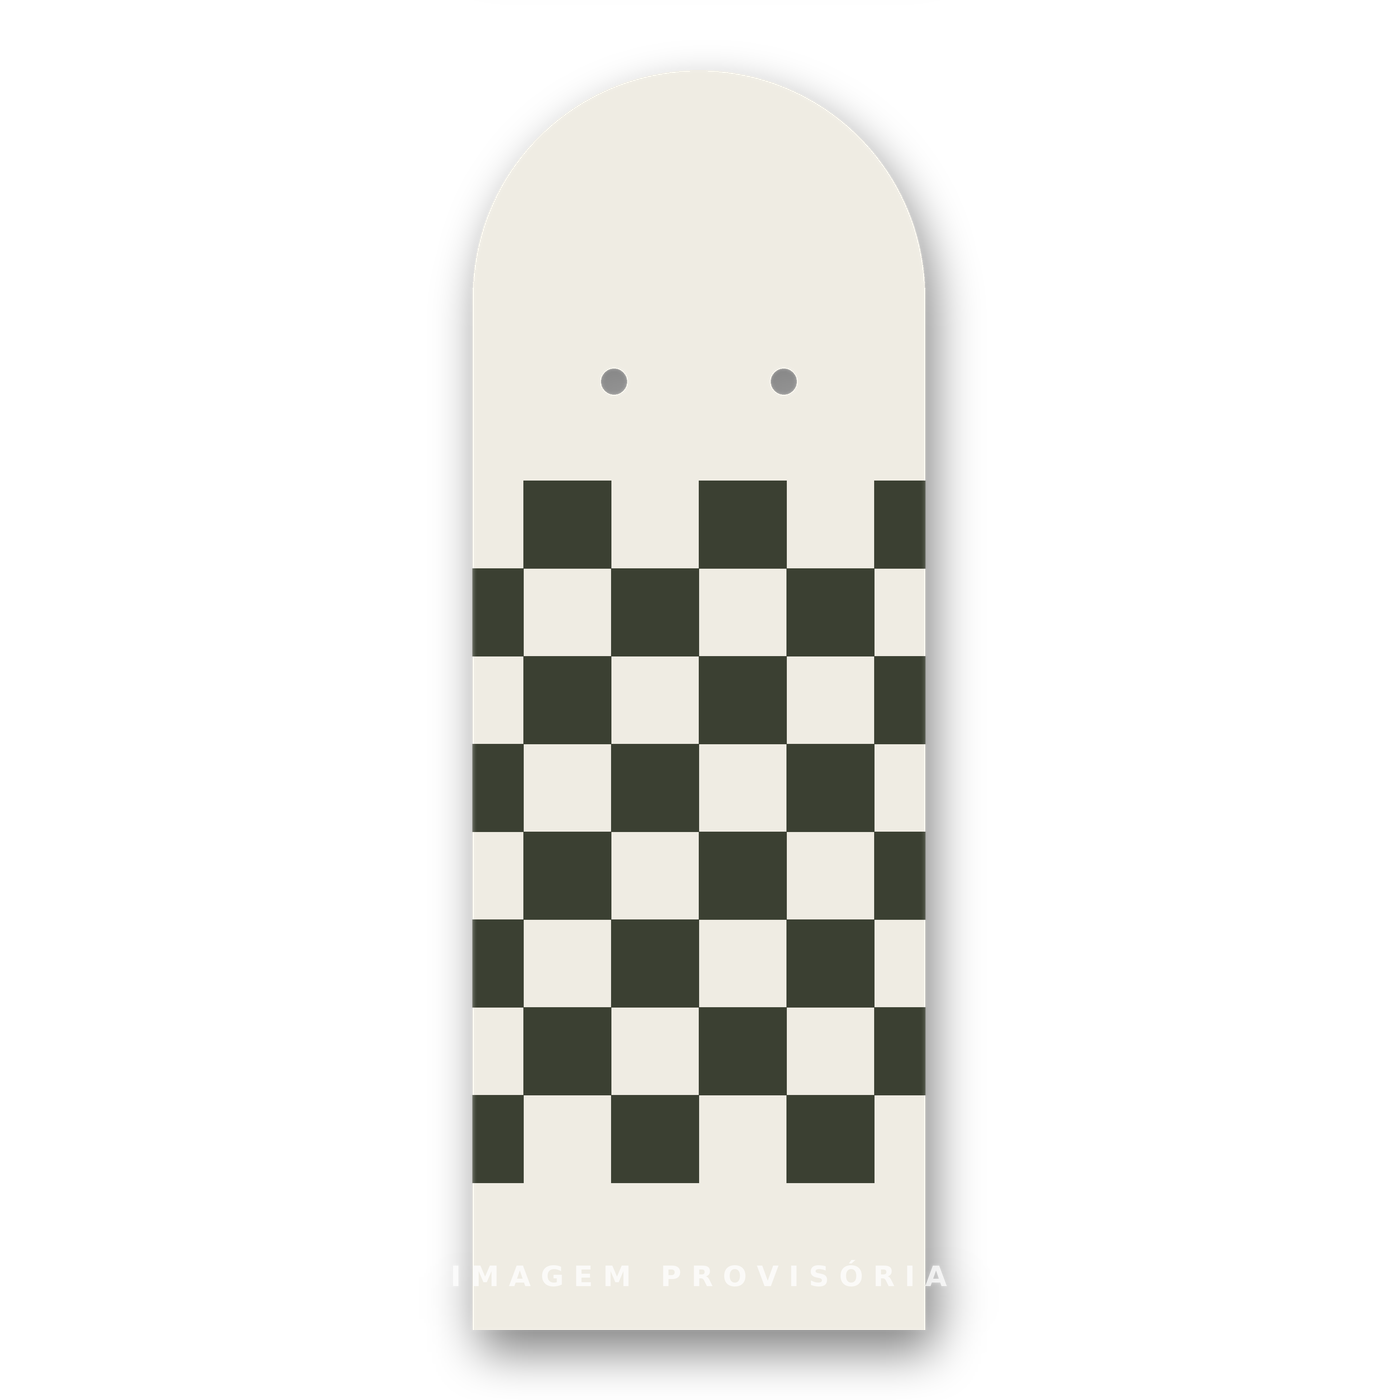
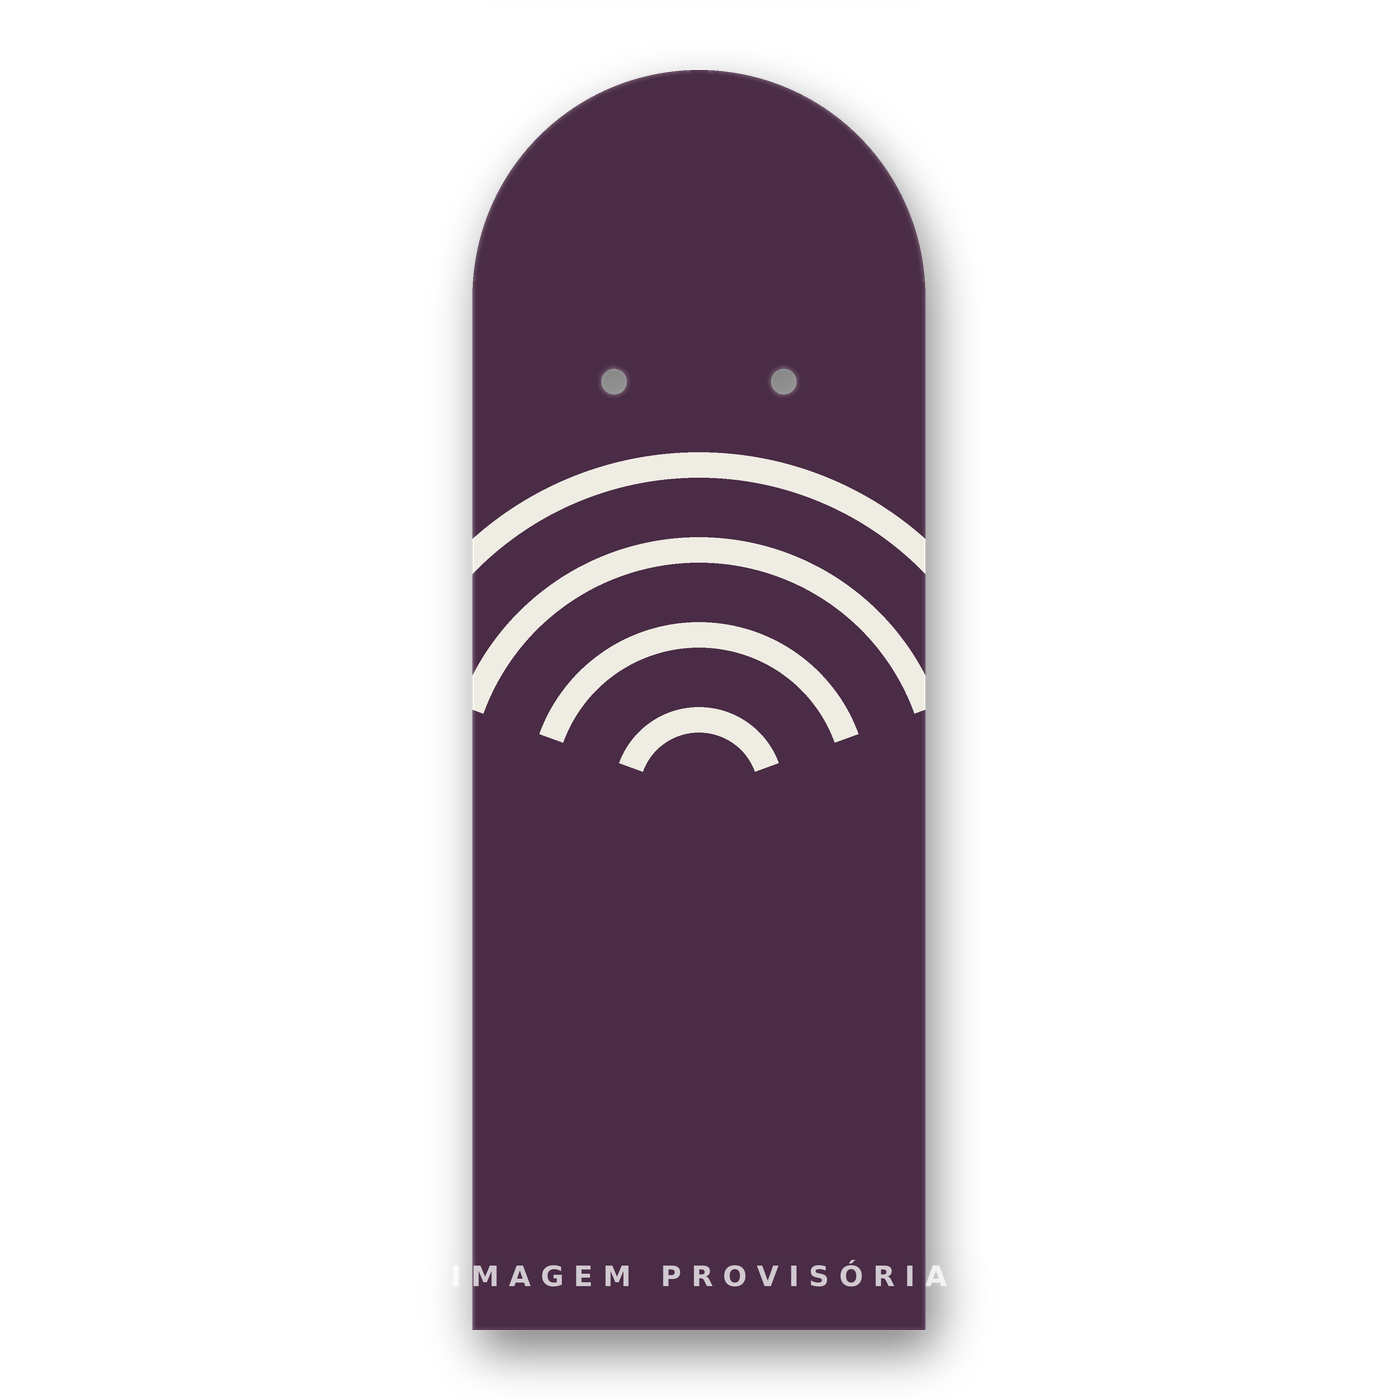
Keep a single deck in the catalogue
- Drop SHAPE MOSAICO, SHAPE TURNO DA NOITE and SHAPE TIME 19; SHAPE FULL DIP
  is the only shape, still in 8.0 / 8.25 / 8.5
- Give it a compareAtPrice so the sale page keeps two items
- Add FeaturedProduct: a one-item collection reads better as a wide showcase
  than as a small card stranded in a four-column grid. Used on the home page
  and on /loja?colecao=shapes
- Remove the shape from new arrivals so it no longer appears twice on the home
  page, and point the latest-drop copy at shirts
- Widen a lone card in ProductGrid as a fallback for other one-item lists
- Trim the placeholder generator to two deck images and delete deck-03

Changed region(s): [[0.3379, 0.0307, 0.6757, 0.9521]]

diff --git a/src/app/page.tsx b/src/app/page.tsx
@@ -1,6 +1,7 @@
 import Link from "next/link";
 
 import styles from "./page.module.css";
+import { FeaturedProduct } from "@/components/product/FeaturedProduct";
 import { ProductGrid } from "@/components/product/ProductGrid";
 import { SectionHeading } from "@/components/product/SectionHeading";
 import { buttonClassName } from "@/components/ui/button-classes";
@@ -15,6 +16,7 @@ import {
 export default function HomePage() {
   const latest = getNewArrivals(8);
   const shapes = getProductsByCollection("shapes");
+  const singleShape = shapes.length === 1 ? shapes[0] : undefined;
   const onSale = getSaleProducts().slice(0, 4);
 
   return (
@@ -24,21 +26,33 @@ export default function HomePage() {
           id="novidades"
           eyebrow="Nova temporada"
           title="Últimos lançamentos"
-          description="Shapes novos e algodão pesado, estampado em tiragens pequenas."
+          description="Camisetas novas, estampadas em tiragens pequenas."
           action={{ label: "Ver tudo", href: "/loja" }}
         />
         <ProductGrid products={latest} />
       </section>
 
-      <section className={`container ${styles.section}`} aria-labelledby="shapes">
-        <SectionHeading
-          id="shapes"
-          eyebrow="Sete lâminas de bordo"
-          title="Shapes"
-          action={{ label: "Todos os shapes", href: "/loja?colecao=shapes" }}
-        />
-        <ProductGrid products={shapes} priorityCount={0} />
-      </section>
+      {/* A coleção tem um shape só: uma vitrine ocupa melhor o espaço que
+          uma grade de quatro colunas com um card pequeno no canto. */}
+      <div className={`container ${styles.section}`}>
+        {singleShape ? (
+          <FeaturedProduct
+            product={singleShape}
+            eyebrow="Sete lâminas de bordo"
+            title="Shapes"
+          />
+        ) : (
+          <section aria-labelledby="shapes">
+            <SectionHeading
+              id="shapes"
+              eyebrow="Sete lâminas de bordo"
+              title="Shapes"
+              action={{ label: "Todos os shapes", href: "/loja?colecao=shapes" }}
+            />
+            <ProductGrid products={shapes} priorityCount={0} />
+          </section>
+        )}
+      </div>
 
       <section className={`container ${styles.section}`} aria-labelledby="video">
         <Link href="/video" className={styles.videoBand}>

diff --git a/src/components/product/FeaturedProduct.tsx b/src/components/product/FeaturedProduct.tsx
@@ -1,0 +1,67 @@
+import Image from "next/image";
+import Link from "next/link";
+
+import styles from "./featured-product.module.css";
+import { Price } from "@/components/ui/Price";
+import { buttonClassName } from "@/components/ui/button-classes";
+import { ArrowRightIcon } from "@/components/ui/Icons";
+import type { Product } from "@/lib/types";
+
+interface FeaturedProductProps {
+  product: Product;
+  eyebrow?: string;
+  title: string;
+  description?: string;
+}
+
+/**
+ * Destaque para uma coleção de um item só.
+ *
+ * Com um único shape, uma grade de quatro colunas deixaria um card pequeno
+ * perdido no canto. Aqui o produto ocupa a largura da seção, como vitrine.
+ */
+export function FeaturedProduct({
+  product,
+  eyebrow,
+  title,
+  description,
+}: FeaturedProductProps) {
+  return (
+    <section className={styles.band} aria-labelledby="destaque-titulo">
+      <div className={styles.media}>
+        <Image
+          src={product.image}
+          alt={product.name}
+          fill
+          sizes="(min-width: 990px) 45vw, 100vw"
+          className={styles.image}
+        />
+      </div>
+
+      <div className={styles.copy}>
+        {eyebrow && <p className="eyebrow">{eyebrow}</p>}
+        <h2 id="destaque-titulo" className={styles.title}>
+          {title}
+        </h2>
+        {title !== product.name && (
+          <p className={styles.productName}>{product.name}</p>
+        )}
+        <Price
+          price={product.price}
+          compareAtPrice={product.compareAtPrice}
+          size="large"
+          showDiscount
+        />
+        <p className={styles.description}>{description ?? product.description}</p>
+
+        <Link
+          href={`/produtos/${product.slug}`}
+          className={buttonClassName("secondary", styles.action)}
+        >
+          {product.soldOut ? "Ver detalhes" : "Ver o shape"}
+          <ArrowRightIcon />
+        </Link>
+      </div>
+    </section>
+  );
+}

diff --git a/src/lib/catalog.ts b/src/lib/catalog.ts
@@ -16,53 +16,13 @@ export const PRODUCTS: Product[] = [
     name: "SHAPE FULL DIP",
     collection: "shapes",
     price: 34900,
+    compareAtPrice: 39900,
     image: "/media/products/deck-01.png",
-    hoverImage: "/media/products/deck-03.png",
+    hoverImage: "/media/products/deck-02.png",
     colorway: "PRETO / AMARELO",
     sizes: ["8.0", "8.25", "8.5"],
     description:
       "Sete lâminas de bordo canadense com acabamento full dip. Concave médio, tail íngreme, prensado para a rua.",
-    isNew: true,
-  },
-  {
-    id: "p-shape-mosaico",
-    slug: "shape-mosaico",
-    name: "SHAPE MOSAICO",
-    collection: "shapes",
-    price: 34900,
-    image: "/media/products/deck-02.png",
-    hoverImage: "/media/products/deck-01.png",
-    colorway: "CRU / VERDE-OLIVA",
-    sizes: ["8.0", "8.25", "8.5"],
-    description:
-      "Sete lâminas de bordo canadense, gráfico mosaico, concave médio. Um shape que amacia rápido e continua firme.",
-  },
-  {
-    id: "p-shape-turno-da-noite",
-    slug: "shape-turno-da-noite",
-    name: "SHAPE TURNO DA NOITE",
-    collection: "shapes",
-    price: 35900,
-    compareAtPrice: 39900,
-    image: "/media/products/deck-03.png",
-    hoverImage: "/media/products/deck-02.png",
-    colorway: "AMORA / CRU",
-    sizes: ["8.0", "8.25", "8.5"],
-    description:
-      "Concave mais fundo e nose quadrado para manobras de borda. Tingimento full dip amora com estampa cru.",
-  },
-  {
-    id: "p-shape-time-19",
-    slug: "shape-time-19",
-    name: "SHAPE TIME 19",
-    collection: "shapes",
-    price: 32900,
-    image: "/media/products/deck-01.png",
-    colorway: "PRETO / AMARELO",
-    sizes: ["8.0", "8.25"],
-    description:
-      "Shape do time, da leva de arquivo. Mesmo bordo, mesma prensa, tiragem limitada.",
-    soldOut: true,
   },
   {
     id: "p-camiseta-mira-preta",

diff --git a/src/components/product/featured-product.module.css b/src/components/product/featured-product.module.css
@@ -1,0 +1,66 @@
+.band {
+  display: grid;
+  grid-template-columns: 1fr;
+  gap: var(--space-5);
+  align-items: center;
+  padding-block: var(--space-5);
+  border-top: 1px solid var(--border-subtle);
+  border-bottom: 1px solid var(--border-subtle);
+}
+
+.media {
+  position: relative;
+  aspect-ratio: 1 / 1;
+  max-width: 42rem;
+  width: 100%;
+  justify-self: center;
+}
+
+.image {
+  object-fit: contain;
+}
+
+.copy {
+  display: flex;
+  flex-direction: column;
+  align-items: flex-start;
+  gap: 1rem;
+}
+
+.title {
+  font-size: clamp(2.4rem, 4vw, 3.6rem);
+  letter-spacing: 0.04em;
+  text-transform: uppercase;
+}
+
+.productName {
+  font-family: var(--font-display);
+  font-size: 1.5rem;
+  letter-spacing: 0.08em;
+  color: var(--text-secondary);
+  text-transform: uppercase;
+}
+
+.description {
+  max-width: 46ch;
+  margin-top: 0.4rem;
+  font-size: 1.35rem;
+  line-height: 1.6;
+  color: var(--text-tertiary);
+}
+
+.action {
+  margin-top: 0.8rem;
+}
+
+@media (min-width: 750px) {
+  .band {
+    grid-template-columns: minmax(0, 0.9fr) minmax(0, 1.1fr);
+    gap: var(--space-6);
+    padding-block: var(--space-6);
+  }
+
+  .media {
+    justify-self: start;
+  }
+}

diff --git a/src/app/loja/page.tsx b/src/app/loja/page.tsx
@@ -2,8 +2,9 @@ import Link from "next/link";
 
 import styles from "./loja.module.css";
 import { PageHeader } from "@/components/layout/PageHeader";
+import { FeaturedProduct } from "@/components/product/FeaturedProduct";
 import { ProductGrid } from "@/components/product/ProductGrid";
-import { COLLECTIONS } from "@/config/navigation";
+import { COLLECTIONS, collectionLabel } from "@/config/navigation";
 import { getProductsByCollection } from "@/lib/catalog";
 import type { CollectionId } from "@/lib/types";
 
@@ -59,7 +60,13 @@ export default async function LojaPage({ searchParams }: LojaPageProps) {
         {products.length} {products.length === 1 ? "item" : "itens"}
       </p>
 
-      <ProductGrid products={products} />
+      {/* Uma coleção de um item só fica melhor como vitrine do que como um
+          card solto no canto da grade. */}
+      {products.length === 1 && products[0] ? (
+        <FeaturedProduct product={products[0]} eyebrow={collectionLabel(products[0].collection)} title={products[0].name} />
+      ) : (
+        <ProductGrid products={products} />
+      )}
     </div>
   );
 }

diff --git a/src/components/product/ProductGrid.tsx b/src/components/product/ProductGrid.tsx
@@ -17,8 +17,11 @@ export function ProductGrid({ products, priorityCount = 4 }: ProductGridProps) {
     );
   }
 
+  // Uma coleção de um item só não deve virar um card pequeno num canto.
+  const layoutClass = products.length === 1 ? styles.single : styles.grid;
+
   return (
-    <ul className={styles.grid}>
+    <ul className={layoutClass}>
       {products.map((product, index) => (
         <li key={product.id} className={styles.item}>
           <ProductCard product={product} priority={index < priorityCount} />

diff --git a/src/components/product/product-grid.module.css b/src/components/product/product-grid.module.css
@@ -30,3 +30,10 @@
     row-gap: var(--space-7);
   }
 }
+
+/* Um único produto na grade ocupa a largura de dois cards. */
+.single {
+  display: grid;
+  grid-template-columns: minmax(0, 1fr);
+  max-width: 40rem;
+}

diff --git a/scripts/generate_placeholders.py b/scripts/generate_placeholders.py
@@ -276,8 +276,7 @@ def build_product(shape: str, motif: str, colour, motif_colour) -> Image.Image:
 # (filename, shape, motif, garment colour, print colour)
 PRODUCTS = [
     ("deck-01", "deck", "crosshair", INK, AMARELO),
-    ("deck-02", "deck", "checker", BONE, OLIVE),
-    ("deck-03", "deck", "rings", PLUM, BONE),
+    ("deck-02", "deck", "rings", PLUM, BONE),
     ("tee-01", "tee", "crosshair", INK, AMARELO),
     ("tee-02", "tee", "target", BONE, VERMELHO),
     ("tee-03", "tee", "word", INK, AZUL),

diff --git a/README.md b/README.md
@@ -14,8 +14,8 @@ produto são provisórias e devem ser trocadas pelas do ensaio oficial.
 
 - **Navegação**: as quatro abas pedidas — LOJA, VÍDEO, PROMOÇÕES e PRÉVIA.
   LOJA abre um menu com as coleções; nada mais no nível de cima.
-- **Catálogo**: 10 produtos, só shapes e camisetas, com filtro por coleção,
-  preço promocional, estado esgotado e página de prévia.
+- **Catálogo**: 7 produtos — um shape e seis camisetas — com filtro por coleção,
+  preço promocional e página de prévia.
 - **Página de produto**: galeria com foto alternativa, escolha de tamanho,
   quantidade, adicionar à sacola e produtos relacionados.
 - **Sacola**: adicionar pela página ou compra rápida no card, painel lateral,
@@ -155,9 +155,12 @@ Produtos, preços, cores, tamanhos e descrições ficam em `src/lib/catalog.ts`.
 Os preços são inteiros em centavos (`34900` = R$ 349,00), o que mantém a conta
 exata. Os tamanhos de vestuário são P, M, G e GG; shapes usam 8.0, 8.25 e 8.5.
 
-A loja vende só dois tipos de produto: **shapes** e **camisetas**. Manga longa
-conta como camiseta; moletom, boné, touca e acessórios ficaram fora do catálogo
-e das coleções. Para voltar a vender outra categoria, acrescente o id em
+A loja vende só dois tipos de produto: **shapes** e **camisetas**, e o catálogo
+tem **um único shape** (SHAPE FULL DIP, em três tamanhos). Manga longa conta
+como camiseta; moletom, boné, touca e acessórios ficaram fora do catálogo e das
+coleções. Como shapes é uma coleção de um item, ela aparece como vitrine
+(`FeaturedProduct`) em vez de card solto na grade — na home e em
+`/loja?colecao=shapes`. Para voltar a vender outra categoria, acrescente o id em
 `CollectionId` (`src/lib/types.ts`), em `COLLECTIONS`
 (`src/config/navigation.ts`) e os produtos em `src/lib/catalog.ts`.
 
@@ -213,8 +216,8 @@ Checado no build de produção em 1440×950 e 390×844:
 - Quatro abas, em português, e rotas antigas em inglês retornando 404.
 - Adicionar à sacola → painel → recarregar (sacola persiste) → alterar
   quantidade → esvaziar.
-- Catálogo com 10 produtos, só SHAPES e CAMISETAS (manga longa entra como
-  camiseta), e nenhuma peça de boné, moletom ou acessório.
+- Catálogo com 7 produtos: um shape e seis camisetas (manga longa entra como
+  camiseta), sem boné, moletom ou acessório.
 - Senha errada mostra erro; login de demonstração chega em `/conta`; sair volta
   para a home; `/conta` deslogada redireciona para `/entrar?next=/conta`.
 - Slug inexistente devolve 404; filtro por coleção devolve os produtos certos.
